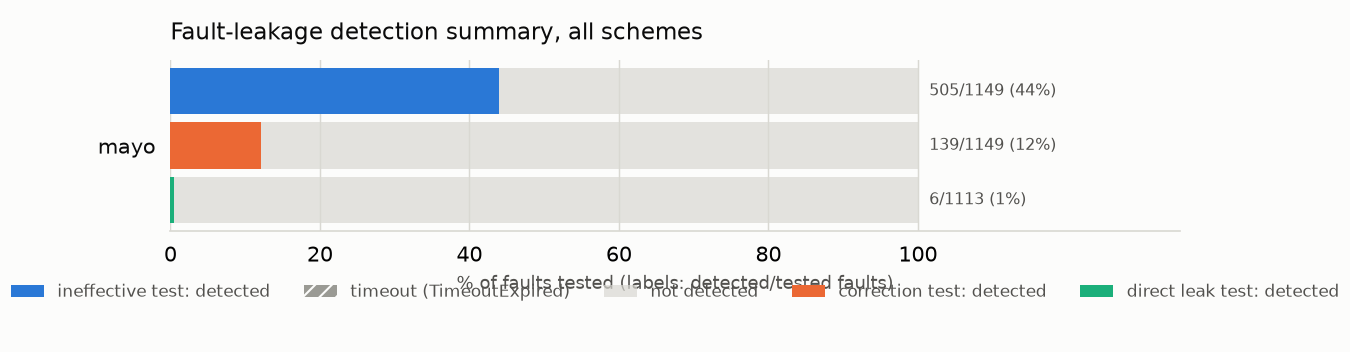
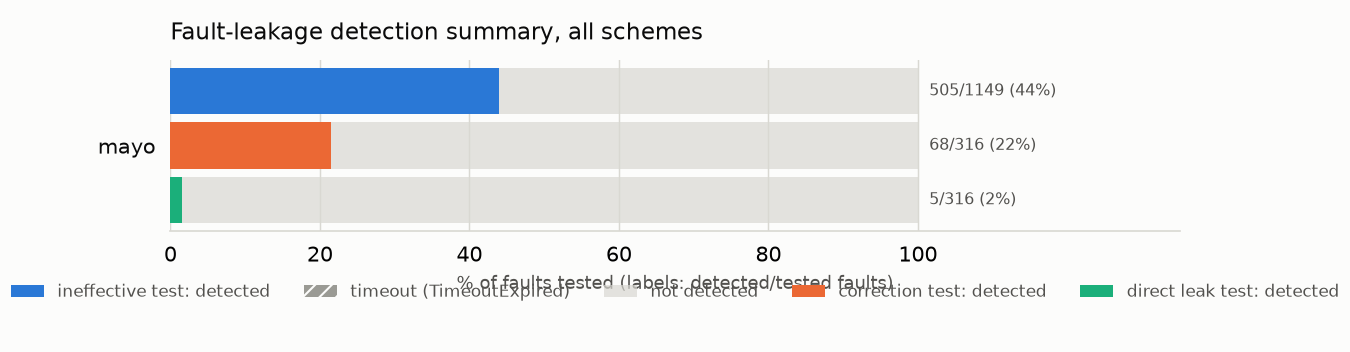
corection plots for end fns

diff --git a/generic_tests_plot.py b/generic_tests_plot.py
@@ -526,6 +526,93 @@ def plot_scheme_summary(scheme, rows, out_path):
     return out_path
 
 
+def _short_func_name(name):
+    """Display name only: drop the parameter-set namespace prefix."""
+    return re.sub(r"^pq\w+?_MAYO_\d_ref_", "", name)
+
+
+def plot_scheme_rate(scheme, rows, out_path):
+    """Small multiples, one panel per test, each listing only the functions
+    that test ran on, sorted by detection rate. Bars are the detected share
+    (0-100 %, so a function with 206 faults does not squash one with 2) on a
+    faint 100 % track; each row is labeled detected/tested so a 1/1 is not
+    read like 201/206. Timed-out faults are a hatched segment after it."""
+    try:
+        import matplotlib
+        matplotlib.use("Agg")
+        import matplotlib.pyplot as plt
+    except ImportError as e:
+        raise RuntimeError(
+            "matplotlib is required for --plot (pip install matplotlib)"
+        ) from e
+
+    counts = aggregate_detection_rates(rows)
+    panels = []
+    for test in TESTS:
+        items = [(f, *c[test]) for f, c in counts.items() if c[test][2]]
+        if not items:
+            continue
+        # highest rate first; ties by more faults tested, then name
+        items.sort(key=lambda it: (-it[1] / it[3], -it[3], it[0]))
+        panels.append((test, items))
+    if not panels:
+        raise RuntimeError(f"no plottable data for scheme {scheme!r}")
+
+    surface = "#fcfcfb"
+    row_h = 0.22
+    heights = [row_h * len(items) + 0.55 for _, items in panels]
+    fig = plt.figure(figsize=(8.5, sum(heights) + 0.9), dpi=150)
+    fig.patch.set_facecolor(surface)
+    gs = fig.add_gridspec(len(panels), 1, height_ratios=heights, hspace=0.9 / sum(heights) * len(panels))
+
+    for pi, (test, items) in enumerate(panels):
+        ax = fig.add_subplot(gs[pi])
+        ax.set_facecolor(surface)
+        ys = list(range(len(items)))
+        for y, (func, hit, to, tot) in zip(ys, items):
+            hit_pct, to_pct = 100.0 * hit / tot, 100.0 * to / tot
+            ax.barh(y, 100, height=0.62, color=COLOR_GRID, alpha=0.55, zorder=1)
+            if hit:
+                ax.barh(y, hit_pct, height=0.62, color=TEST_COLORS[test], zorder=3)
+            if to:
+                ax.barh(y, to_pct, left=hit_pct, height=0.62, color=COLOR_TIMEOUT,
+                        hatch="///", edgecolor=surface, linewidth=0, zorder=3)
+            lab = f"{hit}/{tot}" + (f"  ({to} TO)" if to else "")
+            ax.text(101.5, y, lab, va="center", ha="left", fontsize=7,
+                    color=COLOR_TEXT if hit else COLOR_TEXT_MUTED)
+        ax.set_yticks(ys)
+        ax.set_yticklabels([_short_func_name(it[0]) for it in items], fontsize=7,
+                           color=COLOR_TEXT)
+        ax.set_ylim(len(items) - 0.5, -0.5)
+        ax.set_xlim(0, 100)
+        ax.set_xticks([0, 25, 50, 75, 100])
+        ax.set_xticklabels(["0%", "25%", "50%", "75%", "100%"], fontsize=7,
+                           color=COLOR_TEXT_MUTED)
+        ax.grid(axis="x", color=COLOR_GRID, linewidth=0.6, zorder=0)
+        ax.tick_params(axis="both", length=0)
+        for s in ax.spines.values():
+            s.set_visible(False)
+
+        n_hit = sum(it[1] for it in items)
+        n_tot = sum(it[3] for it in items)
+        n_det_funcs = sum(1 for it in items if it[1])
+        ax.set_title(
+            f"{TEST_LABELS[test]} test: {n_hit}/{n_tot} faults detected "
+            f"({100.0 * n_hit / n_tot:.0f}%), in {n_det_funcs} of "
+            f"{len(items)} functions",
+            loc="left", fontsize=9, color=COLOR_TEXT, pad=6)
+
+    # Fixed inch offsets: as fractions of this tall figure the default
+    # suptitle position leaves a large gap above the first panel.
+    fig_h = fig.get_figheight()
+    fig.subplots_adjust(top=1 - 0.75 / fig_h, bottom=0.25 / fig_h)
+    fig.suptitle(f"{scheme}: share of faults with the leak detected, per function "
+                 f"(label = detected/tested)",
+                 x=0.02, y=1 - 0.2 / fig_h, ha="left", fontsize=10, color=COLOR_TEXT)
+    fig.savefig(out_path, bbox_inches="tight", facecolor=surface)
+    plt.close(fig)
+
+
 def plot_combined(rows_by_scheme, out_path):
     """One figure covering every scheme: per scheme, one 100%-stacked bar
     per test with data (ineffective / correction / direct leak), split into
@@ -608,6 +695,46 @@ def plot_combined(rows_by_scheme, out_path):
     return out_path
 
 
+# Functions whose output lands in the final signature without further mixing,
+# per scheme. For these tests only these functions are plotted (the CSVs keep
+# everything; --all-funcs plots everything). MAYO round-3:
+#   sig = encode(s) || salt,  s_i = [ v_i + O x_i | x_i ]  (m_compute_s)
+#   - mayo_sign / mayo_sign_signature / sign_signature_internal: sig itself
+#   - m_compute_s: s
+#   - mat_add, add_f: v + Ox (add_f's only callers are mat_add and lincomb)
+#   - mat_mul, lincomb, mul_f: Ox = O x (mat_mul/lincomb are only reached
+#     from m_compute_s; mul_f is also used by compute_A/compute_rhs, but in
+#     lincomb it forms each O[i][k] x[k] term of Ox)
+#   - sample_solution: x, copied verbatim into s
+# Left out: functions whose output only feeds the linear system or other
+# intermediates (EF, sub_f, compute_A, compute_rhs, decode, ...).
+SIGNATURE_PATH_FUNCS = {
+    "mayo": {
+        "pqmayo_MAYO_1_ref_mayo_sign",
+        "pqmayo_MAYO_1_ref_mayo_sign_signature",
+        "sign_signature_internal",
+        "m_compute_s",
+        "mat_add",
+        "add_f",
+        "mat_mul",
+        "lincomb",
+        "mul_f",
+        "pqmayo_MAYO_1_ref_sample_solution",
+    },
+}
+SIGNATURE_PATH_TESTS = ("correction", "direct_leak")
+
+
+def signature_path_rows(scheme, rows):
+    """rows with correction/direct_leak results kept only for the scheme's
+    SIGNATURE_PATH_FUNCS (unchanged if the scheme has no list)."""
+    funcs = SIGNATURE_PATH_FUNCS.get(scheme)
+    if not funcs:
+        return rows
+    return [r for r in rows
+            if r["test"] not in SIGNATURE_PATH_TESTS or r["function"] in funcs]
+
+
 def find_tests_root(root, scheme, override=None):
     """The scheme's results directory: --tests-dir if given, else the first
     that exists of tests_<scheme>/ (test_qemu layout), test_<scheme>/ and
@@ -647,18 +774,26 @@ def main():
              "(requires matplotlib).",
     )
     ap.add_argument(
-        "--style", choices=("bar", "heatmap", "summary"), default="bar",
+        "--style", choices=("bar", "heatmap", "summary", "rate"), default="bar",
         help="plot style used with --plot: 'bar' (default, "
              "fault_report_<scheme>.png) or the more compact 'heatmap' "
              "(fault_report_<scheme>_heatmap.png) or 'summary' (overall "
              "stacked bars + per-function table, "
-             "fault_report_<scheme>_summary.png).",
+             "fault_report_<scheme>_summary.png) or 'rate' (one panel per "
+             "test, detection rate per function on a 0-100%% axis, "
+             "fault_report_<scheme>_rate.png).",
     )
     ap.add_argument(
         "--direct-leak-csv", default="direct_leak_report.csv",
         help="CSV written by dist_tests/run_direct_leak.sh, relative to --root "
              "unless absolute (default: %(default)s). Its rows are added as the "
              "'direct_leak' test to the CSVs and plots; ignored if missing.",
+    )
+    ap.add_argument(
+        "--all-funcs", action="store_true",
+        help="plot correction/direct-leak results for every function, not "
+             "only those on the signature path (SIGNATURE_PATH_FUNCS). The "
+             "CSVs always hold every result.",
     )
     ap.add_argument(
         "--combined", action="store_true",
@@ -688,8 +823,9 @@ def main():
         tests_root = find_tests_root(args.root, scheme, args.tests_dir)
         rows = list(scan_scheme(scheme, tests_root)) + direct_leak.get(scheme, [])
         all_rows.extend(rows)
-        if rows:
-            rows_by_scheme[scheme] = rows
+        plot_rows = rows if args.all_funcs else signature_path_rows(scheme, rows)
+        if plot_rows:
+            rows_by_scheme[scheme] = plot_rows
 
         out_path = os.path.join(args.outdir, f"fault_report_{scheme}.csv")
         with open(out_path, "w", newline="") as f:
@@ -709,15 +845,22 @@ def main():
         else:
             print(f"[{scheme}] {out_path}: no result files found under {tests_root}")
 
-        if args.plot and rows:
-            if args.style in ("heatmap", "summary"):
+        if args.plot and plot_rows and plot_rows is not rows:
+            print(f"[{scheme}] plots: correction/direct-leak limited to "
+                  f"{len(SIGNATURE_PATH_FUNCS[scheme])} signature-path "
+                  f"function(s) ({len(rows) - len(plot_rows)} result(s) left "
+                  f"out; --all-funcs to plot all)")
+        if args.plot and plot_rows:
+            if args.style in ("heatmap", "summary", "rate"):
                 png_path = os.path.join(args.plotdir, f"fault_report_{scheme}_{args.style}.png")
-                plot_fn = plot_scheme_heatmap if args.style == "heatmap" else plot_scheme_summary
+                plot_fn = {"heatmap": plot_scheme_heatmap,
+                           "summary": plot_scheme_summary,
+                           "rate": plot_scheme_rate}[args.style]
             else:
                 png_path = os.path.join(args.plotdir, f"fault_report_{scheme}.png")
                 plot_fn = plot_scheme
             try:
-                plot_fn(scheme, rows, png_path)
+                plot_fn(scheme, plot_rows, png_path)
                 print(f"[{scheme}] {png_path}: detection-by-function {args.style}")
             except RuntimeError as e:
                 print(f"[{scheme}] [!] plot skipped: {e}")
